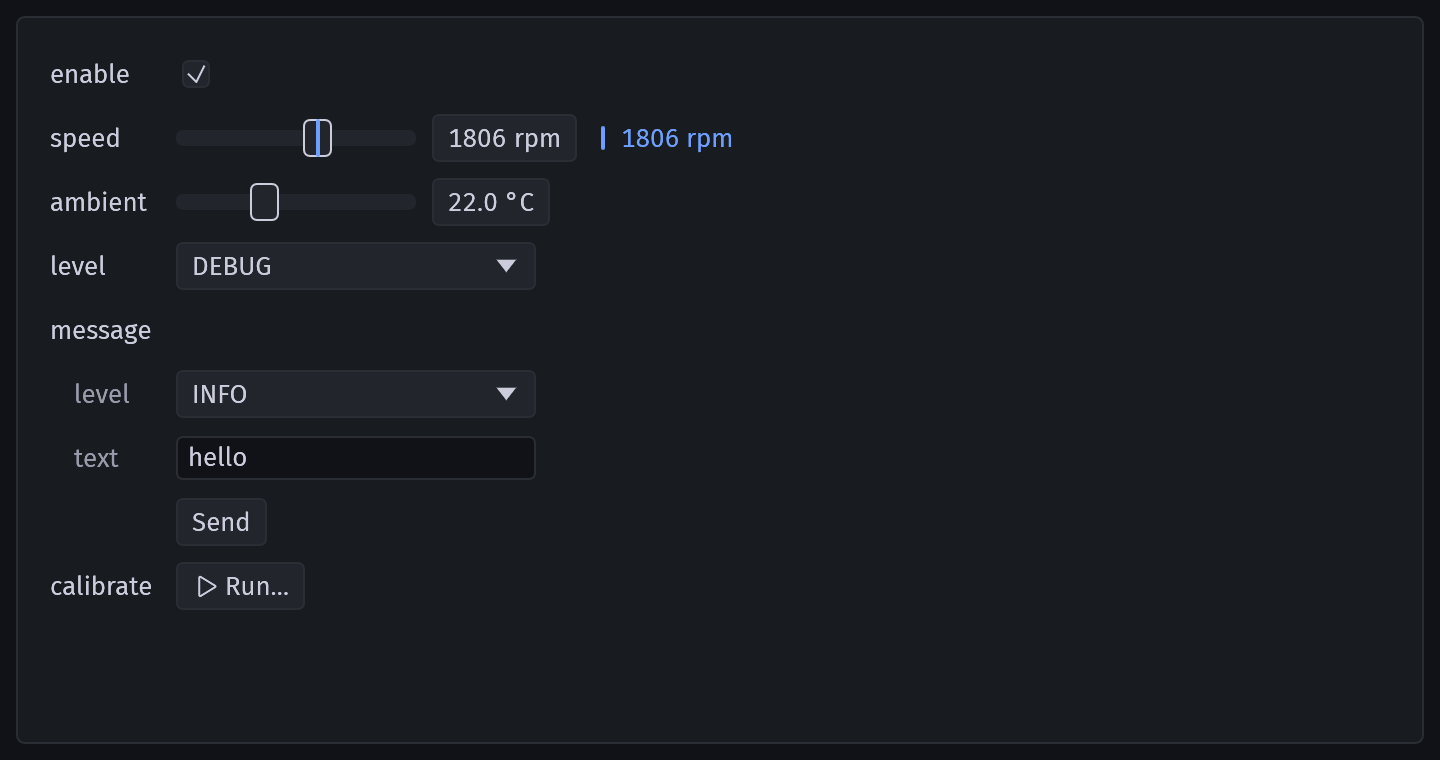
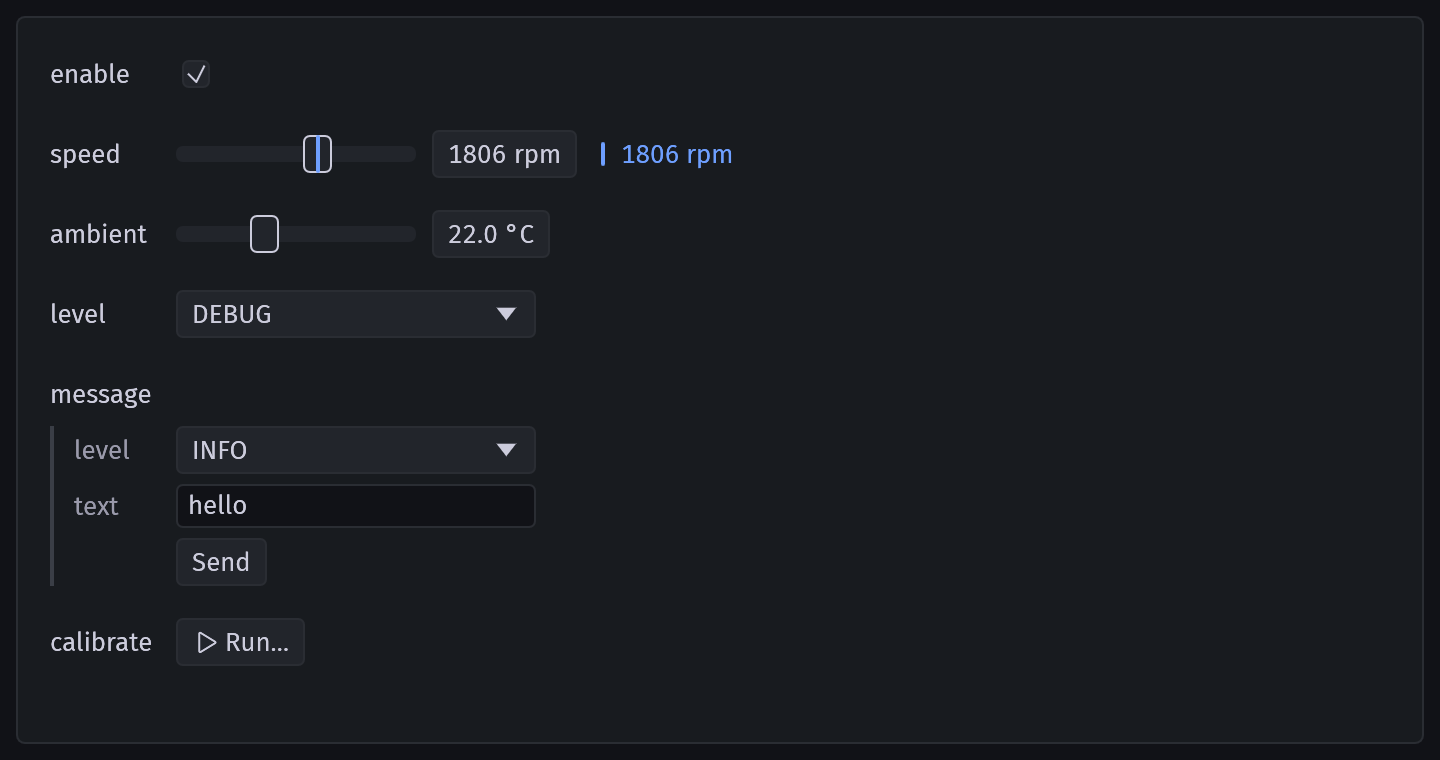
Join the parameters of an action with a rule
The rows of an action with several parameters were as far apart as the
actions, and the parameter names looked like action names. Now a rule in the
column of the names runs from the first parameter to Send, the rows of an
action are 4 points apart and the actions 16, so each reads as one. The
inputs stay in the column of the inputs of all other actions, and notes sit
right below their action.

diff --git a/blip/src/app/view/actions.rs b/blip/src/app/view/actions.rs
@@ -718,9 +718,15 @@ fn readback_ui(ui: &mut egui::Ui, readback: Option<(&str, String)>, connected: b
 
 /// The width in points up to which a note wraps.
 const NOTE_WIDTH: f32 = 420.0;
-/// The points a note is raised into the spacing above its row, so that it stays close
-/// to the action it is about.
-const NOTE_RAISE: f32 = 4.0;
+/// The width in points of the rule along the parameters of an action listing them.
+const RULE_WIDTH: f32 = 2.0;
+/// The points from the rule's left edge to the names of the parameters beside it.
+const RULE_INDENT: f32 = 12.0;
+/// The points between the rows of one action.
+const ROW_GAP: f32 = 4.0;
+/// The points added between actions to the gap between rows, so that the rows of an
+/// action read as one.
+const ACTION_GAP: f32 = 16.0 - 2.0 * ROW_GAP;
 
 /// Shows `text` in the input column of a row of its own, overflowing into the columns
 /// to its right without widening the input column.
@@ -728,12 +734,9 @@ fn note_ui(ui: &mut egui::Ui, (text, color): (String, egui::Color32)) {
     ui.label("");
     let font = egui::TextStyle::Body.resolve(ui.style());
     let galley = ui.painter().layout(text.clone(), font, color, NOTE_WIDTH);
-    let size = egui::vec2(0.0, galley.size().y - NOTE_RAISE);
-    // the top of the row, before the cell aligns what it allocates
-    let top = ui.cursor().top() - NOTE_RAISE;
+    let size = egui::vec2(0.0, galley.size().y);
     let (rect, response) = ui.allocate_exact_size(size, egui::Sense::hover());
-    ui.painter()
-        .galley(egui::pos2(rect.left(), top), galley, color);
+    ui.painter().galley(rect.min, galley, color);
     response.widget_info(|| egui::WidgetInfo::labeled(egui::WidgetType::Label, true, &text));
     ui.end_row();
 }
@@ -1031,16 +1034,28 @@ impl Actions {
         ui.end_row();
 
         if listed {
+            // a rule in the column of the names, from the first parameter to Send, holds
+            // the rows of the action together; its inputs stay in the column of inputs
+            let mut rule: Option<(f32, egui::Rangef)> = None;
+            let extend = |rule: &mut Option<(f32, egui::Rangef)>, x: f32, rows: egui::Rangef| {
+                *rule = Some(match *rule {
+                    Some((x, span)) => (
+                        x,
+                        egui::Rangef::new(span.min.min(rows.min), span.max.max(rows.max)),
+                    ),
+                    None => (x, rows),
+                });
+            };
             let inputs = action.params.iter().zip(&mut values).zip(&mut typing_now);
             for (index, ((param, value), typing)) in inputs.enumerate() {
-                ui.horizontal(|ui| {
-                    ui.add_space(12.0);
+                let label = ui.horizontal(|ui| {
+                    ui.add_space(RULE_INDENT);
                     ui.weak(&param.name);
                     if marks_unsent && (unsent[index] || typing_before[index]) {
                         unsent_dot(ui);
                     }
                 });
-                ui.add_enabled_ui(disabled.is_none(), |ui| {
+                let input = ui.add_enabled_ui(disabled.is_none(), |ui| {
                     let field = self.uses_field(&action.path, &param.name);
                     let changed = ui
                         .horizontal(|ui| input_ui(ui, &action.path, param, value, field, None))
@@ -1053,13 +1068,15 @@ impl Actions {
                         armed_at = None;
                     }
                 });
+                let rows = input.response.rect.y_range();
+                extend(&mut rule, label.response.rect.left(), rows);
                 ui.label("");
                 ui.label("");
                 ui.end_row();
             }
             if !on_change {
                 ui.label("");
-                ui.add_enabled_ui(disabled.is_none(), |ui| {
+                let send = ui.add_enabled_ui(disabled.is_none(), |ui| {
                     if let Some((confirmed, _)) = confirm(ui, &mut armed_at, "Send") {
                         if confirmed {
                             change = Change::Done;
@@ -1072,9 +1089,17 @@ impl Actions {
                         change = Change::Done;
                     }
                 });
+                if let Some((x, _)) = rule {
+                    extend(&mut rule, x, send.response.rect.y_range());
+                }
                 ui.label("");
                 ui.label("");
                 ui.end_row();
+            }
+            if let Some((x, span)) = rule {
+                let stroke =
+                    egui::Stroke::new(RULE_WIDTH, theme::tokens(ui.visuals()).border_strong);
+                ui.painter().vline(x + RULE_WIDTH / 2.0, span, stroke);
             }
         }
 
@@ -1158,7 +1183,10 @@ impl Actions {
     /// Shows the row of a shown action that the outpost it is sent to does not
     /// announce.
     fn missing_ui(ui: &mut egui::Ui, row: &Row<'_>, name: &str) {
-        ui.weak(name).on_hover_text(row.path);
+        ui.horizontal(|ui| {
+            ui.set_min_height(theme::CONTROL_HEIGHT);
+            ui.weak(name).on_hover_text(row.path);
+        });
         match row.outpost {
             Some(outpost) => ui.weak(format!("not announced by {}", outpost_name(outpost))),
             None => ui.weak("not announced by any outpost"),
@@ -1360,11 +1388,19 @@ impl Viewable for Actions {
                         ui.weak(START_RECORDING);
                         ui.add_space(4.0);
                     }
+                    // rows only as high as their content, the actions apart by a row of
+                    // their own
                     egui::Grid::new(ui.id().with("actions"))
                         .num_columns(4)
-                        .spacing([12.0, 8.0])
+                        .spacing([12.0, ROW_GAP])
+                        .min_row_height(0.0)
                         .show(ui, |ui| {
-                            for (row, name) in rows.iter().zip(&names) {
+                            for (index, (row, name)) in rows.iter().zip(&names).enumerate() {
+                                if index > 0 {
+                                    let gap = egui::vec2(0.0, ACTION_GAP);
+                                    ui.allocate_exact_size(gap, egui::Sense::hover());
+                                    ui.end_row();
+                                }
                                 let (Some(outpost), Some(action)) = (row.outpost, row.action)
                                 else {
                                     Self::missing_ui(ui, row, name);

diff --git a/doc/source/usage/blip/actions.rst b/doc/source/usage/blip/actions.rst
@@ -50,8 +50,8 @@ Inputs
 
   Clicking a field to type in it sends nothing. Integers are typed in a text
   field and kept exact, also beyond 2\ :sup:`53`.
-* An action with several parameters lists them below its row and is sent with
-  its **Send** button, or, if chosen under **Sending** in the properties, each
+* An action with several parameters lists them below its name, joined by a
+  line from the first one to its **Send** button, and is sent with that button, or, if chosen under **Sending** in the properties, each
   time one of its inputs changes (at most ten times a second, the latest
   change sent once the time is up). With a Send button, a dot by a parameter
   shows that its input changed since the action was last sent.
